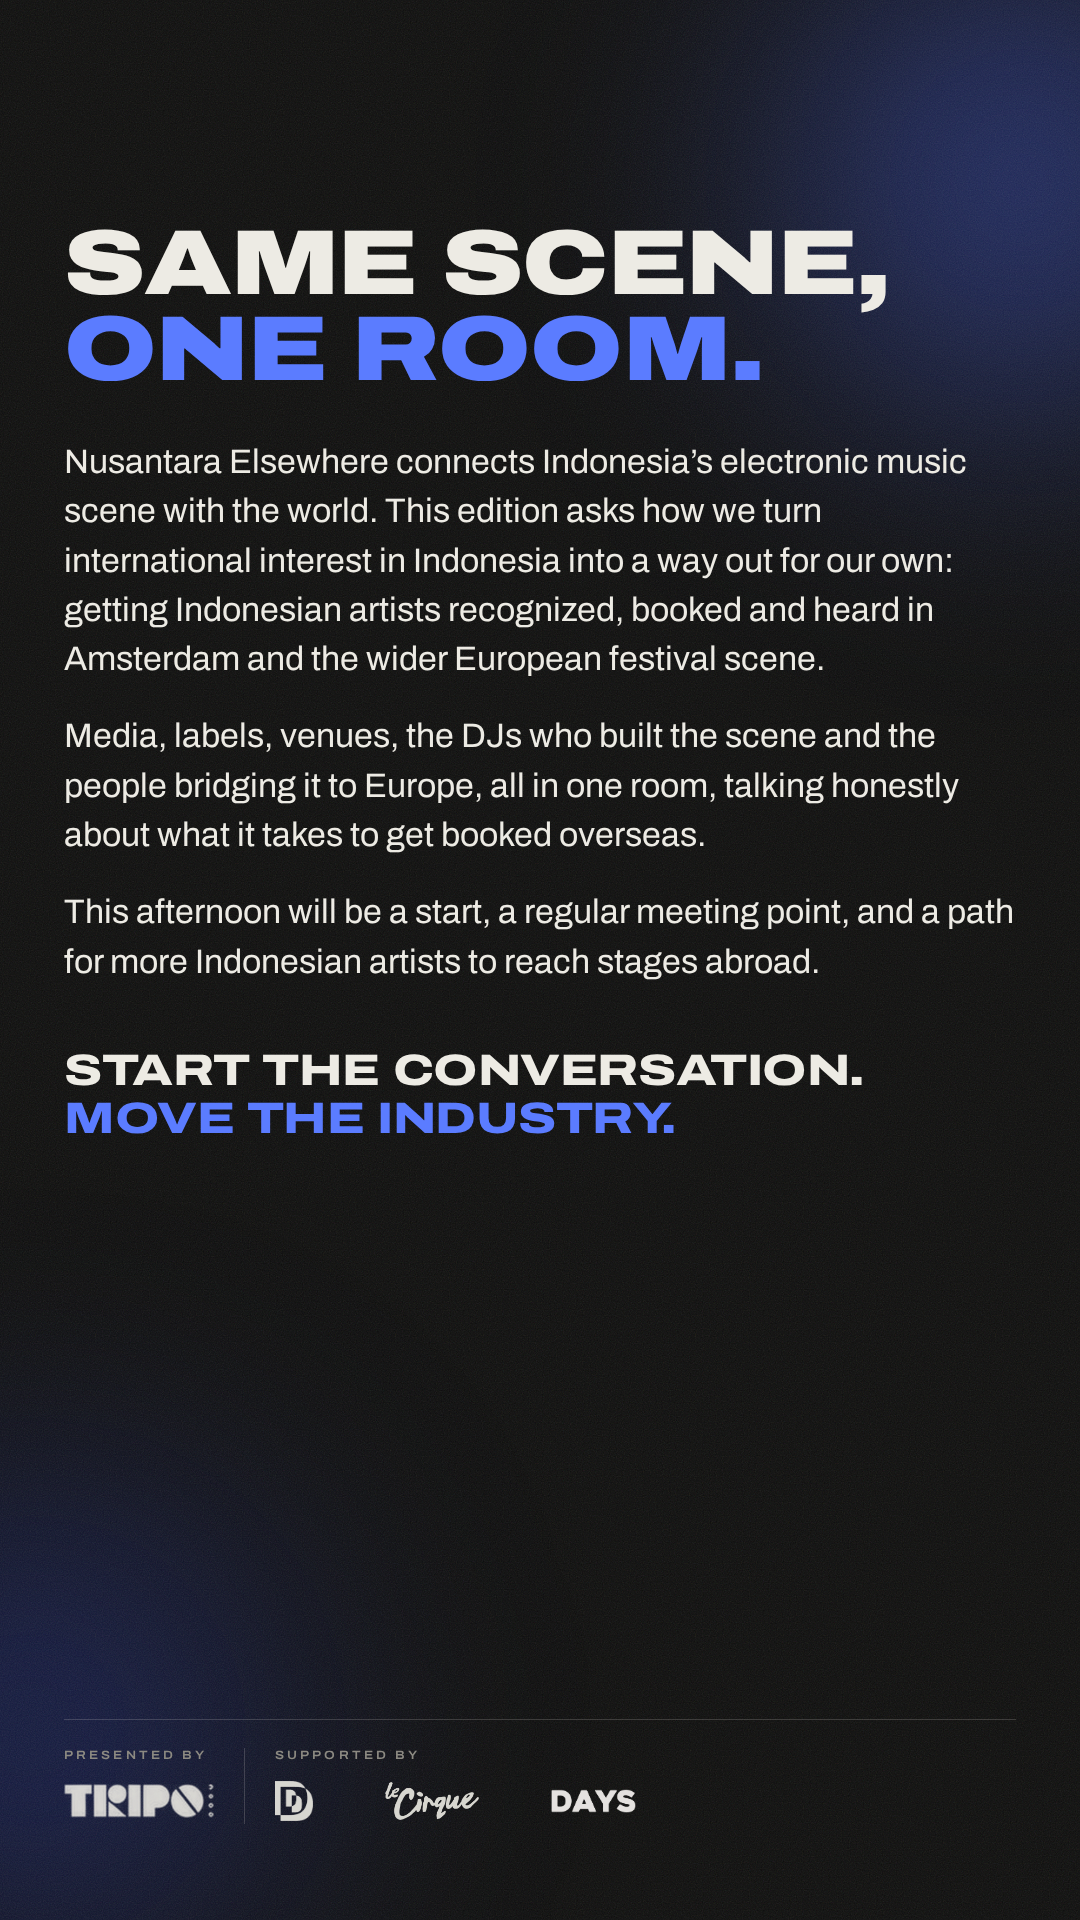
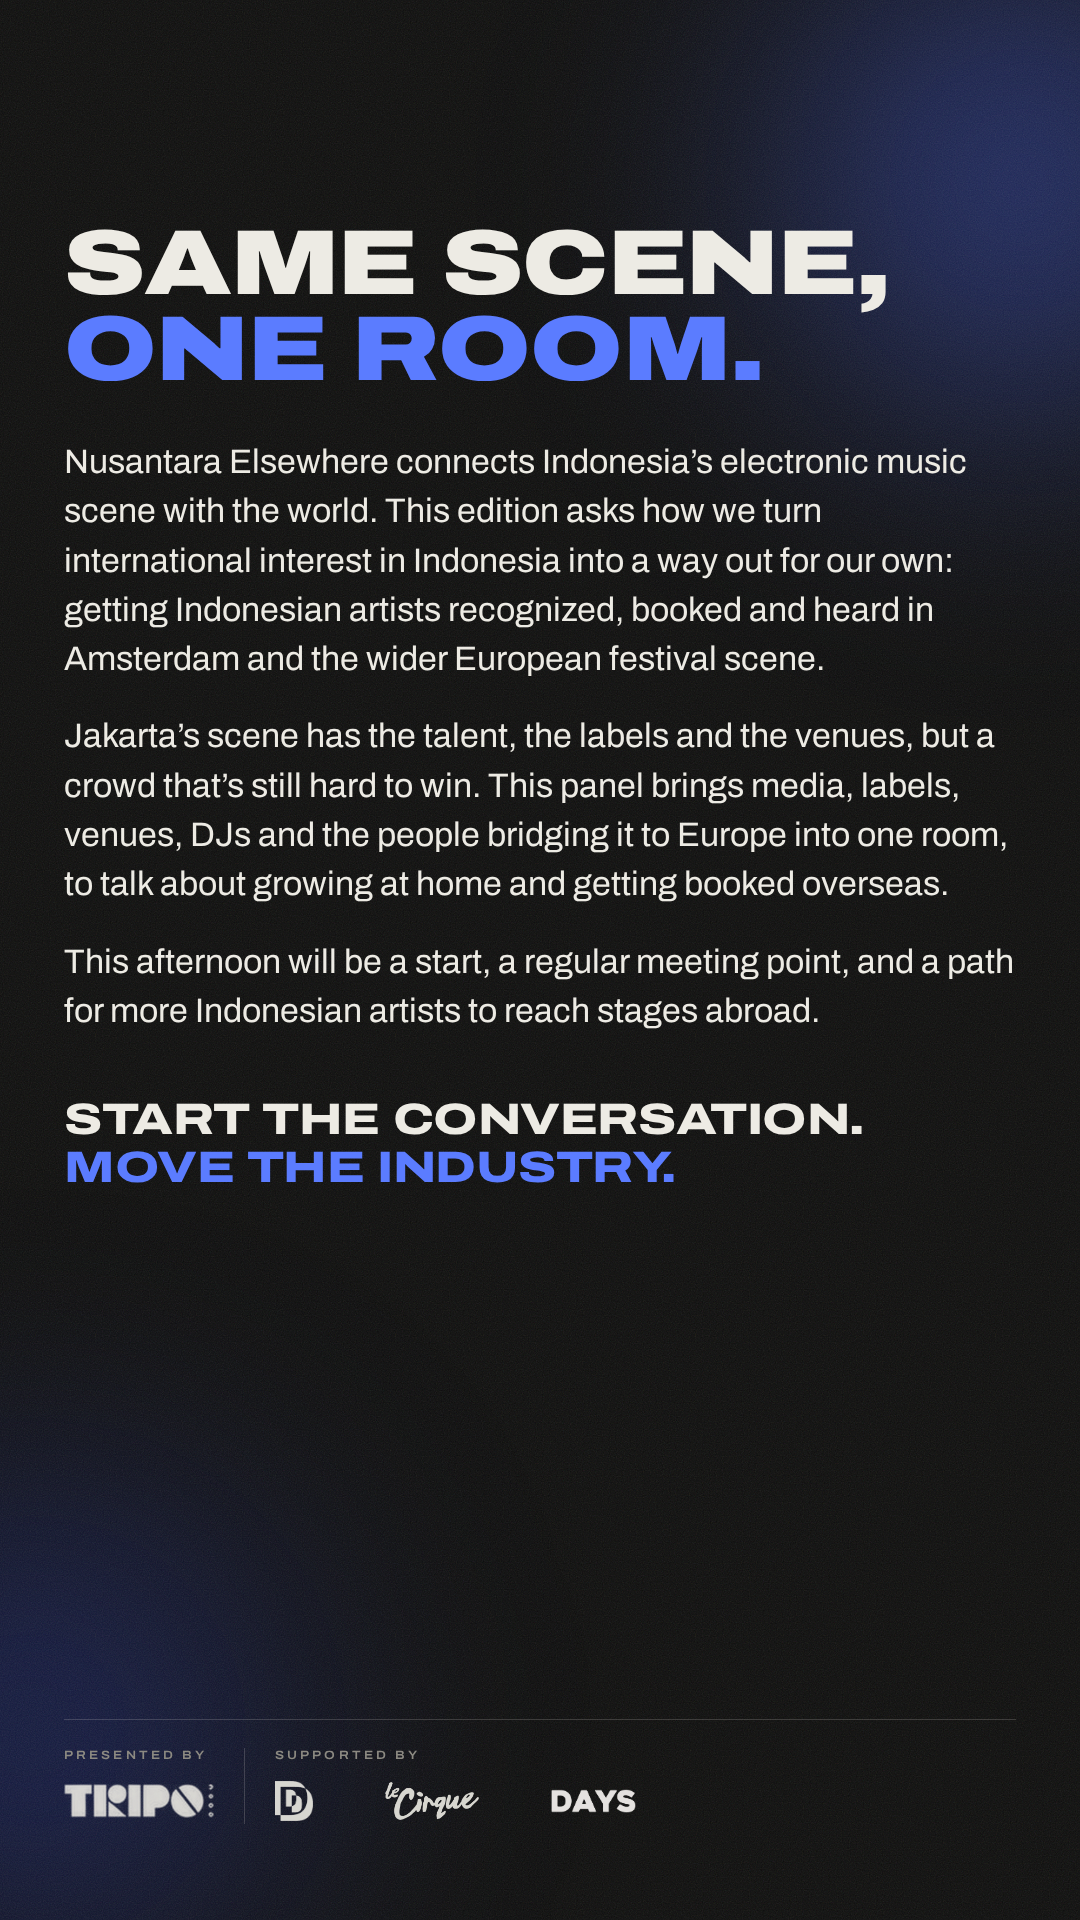
Why page: paragraph on Jakarta's scene
Claude-Session: https://claude.ai/code/session_01Sc5gF2HRFqjLpMQDrx7aqZ

Changed region(s): [[0.0611, 0.375, 0.9472, 0.625]]

diff --git a/events/ade-community-talks-2026/rebrand/03-scene-amsterdam-nusantara.html b/events/ade-community-talks-2026/rebrand/03-scene-amsterdam-nusantara.html
@@ -16,7 +16,7 @@
   <div class="display" style="font-size:92px;line-height:.94;margin-top:0;white-space:nowrap">Same scene,<br><em>one room.</em></div>
 
   <div class="body" style="margin-top:44px">Nusantara Elsewhere connects Indonesia’s electronic music scene with the world. This edition asks how we turn international interest in Indonesia into a way out for our own: getting Indonesian artists recognized, booked and heard in Amsterdam and the wider European festival scene.</div>
-  <div class="body" style="margin-top:28px">Media, labels, venues, the DJs who built the scene and the people bridging it to Europe, all in one room, talking honestly about what it takes to get booked overseas.</div>
+  <div class="body" style="margin-top:28px">Jakarta’s scene has the talent, the labels and the venues, but a crowd that’s still hard to win. This panel brings media, labels, venues, DJs and the people bridging it to Europe into one room, to talk about growing at home and getting booked overseas.</div>
   <div class="body" style="margin-top:28px">This afternoon will be a start, a regular meeting point, and a path for more Indonesian artists to reach stages abroad.</div>
 
   <div class="display" style="font-size:44px;font-weight:800;margin-top:60px">Start the conversation.<br><em>Move the industry.</em></div>
